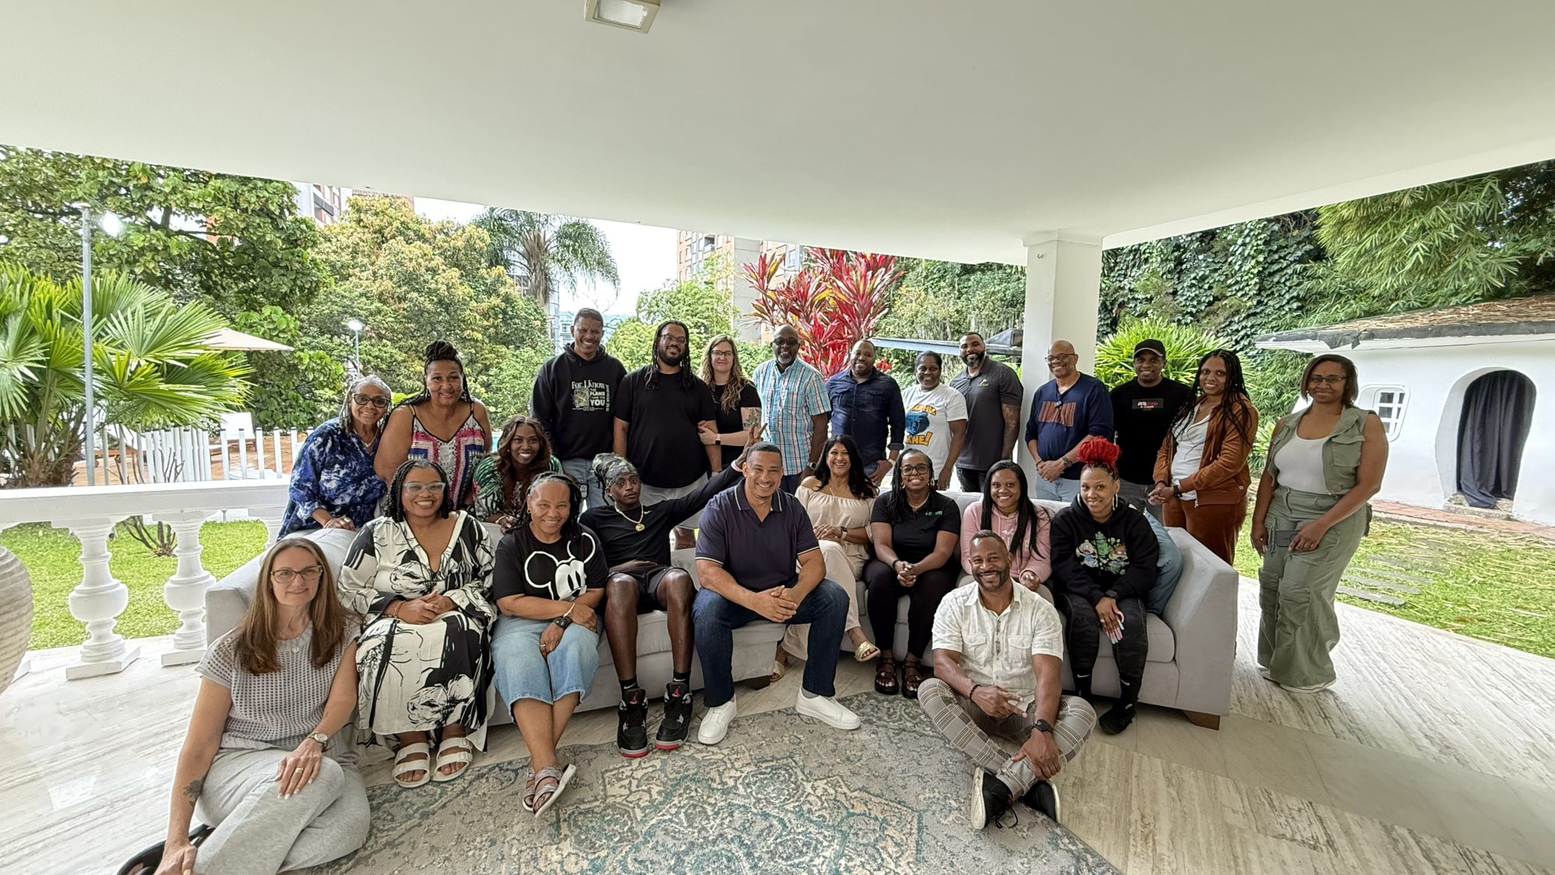
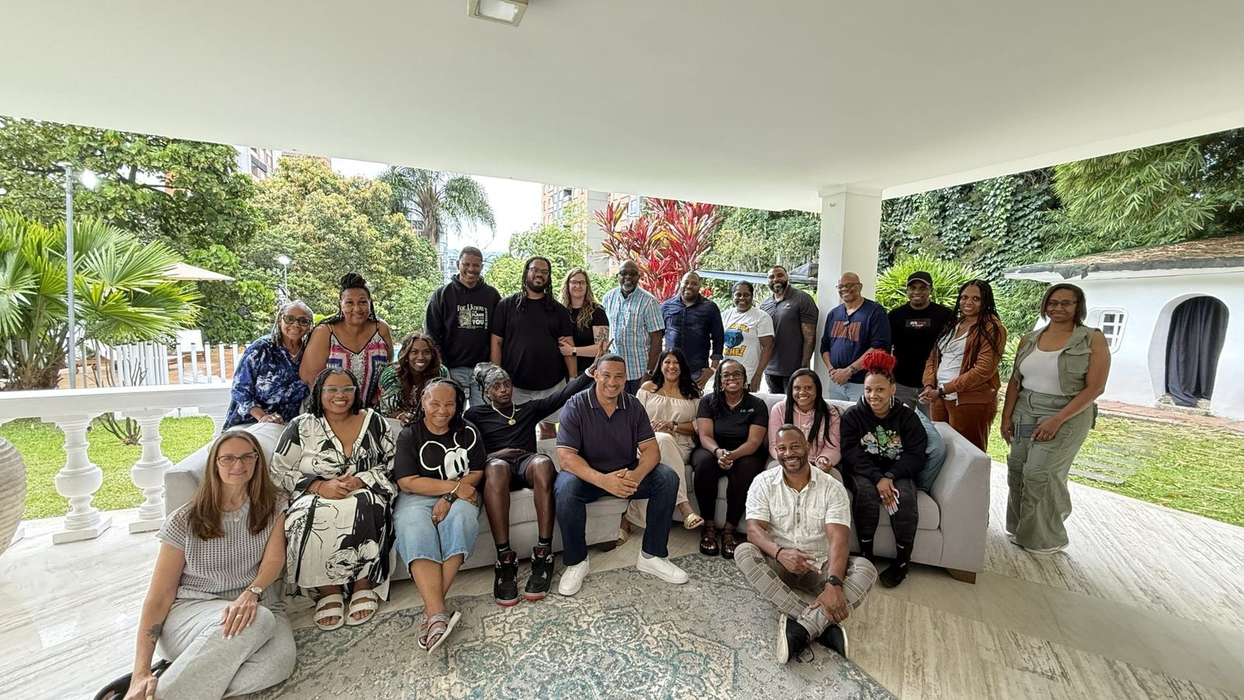
QA pass: lighter Real Estate hero, page-specific announcements, accurate Empire monthly-fee wording, optimized hero images, overflow fix
Claude-Session: https://claude.ai/code/session_01Cg3r9p8uqo7RUmxQMhbu55

diff --git a/empire/index.html b/empire/index.html
@@ -21,7 +21,7 @@
 <link rel="stylesheet" href="/assets/site.css">
 </head>
 <body class="div-empire">
-<div class="topbar"><div class="wrap"><span class="sched">Live mentorship classes Monday to Thursday, 5:00 PM Pacific</span><span><a href="https://portal.4datapoints.com/" target="_blank" rel="noopener">Student Portal</a> &nbsp;·&nbsp; <a href="tel:+17027108030">702-710-8030</a> (call or text)</span></div></div>
+<div class="topbar"><div class="wrap"><span class="sched"><a href="/empire/digital-product-system/">New: Empire Digital Product System · $1,497 setup</a></span><span><a href="https://portal.4datapoints.com/" target="_blank" rel="noopener">Student Portal</a> &nbsp;·&nbsp; <a href="tel:+17027108030">702-710-8030</a> (call or text)</span></div></div>
 <header class="nav"><div class="wrap">
   <a class="logo" href="/" aria-label="4 Data Points Academy home"><img src="/assets/img/logo.png" alt="4 Data Points Academy" width="83" height="54"></a>
   <button class="burger" id="burger" aria-expanded="false" aria-controls="menu">Menu</button>
@@ -32,6 +32,8 @@
     <a href="/events/">Events</a>
     <a href="/books/">Books</a>
     <a href="/about/">About Odis</a>
+    <a class="m-only" href="https://portal.4datapoints.com/" target="_blank" rel="noopener">Student Portal</a>
+    <a class="m-only" href="tel:+17027108030">Call or text 702-710-8030</a>
     <a class="btn btn-gold" href="https://link.4datapoints.com/widget/booking/M9BCcQ7kIWQG6Rm2Wxmh" target="_blank" rel="noopener">Talk to Odis</a>
   </nav>
   <a class="btn btn-gold lp-call" href="tel:+17027108030">Call 702-710-8030</a>
@@ -46,7 +48,7 @@
       <p class="lead">A real business runs on lead capture, follow-up, booking, payments and email, all talking to each other. Empire sets up that whole system for you: branded, connected and tested.</p>
       <div class="btn-row"><a class="btn btn-gold" href="https://forms.4datapoints.com/empire-funnel" target="_blank" rel="noopener">Start Your Empire Intake</a><a class="btn btn-line" href="/empire/#empire-pk">See Packages</a></div>
     </div>
-    <figure class="sysshot"><img src="/assets/img/empire-system.jpg" alt="Our live Empire sales page and checkout, built and running in the same system we set up for clients" width="1800" height="1230"><figcaption>Our own Empire sales page and checkout, live today.</figcaption></figure>
+    <figure class="sysshot"><picture><source type="image/webp" srcset="/assets/img/empire-system-700.webp 700w, /assets/img/empire-system-1200.webp 1200w" sizes="(max-width:860px) 92vw, 560px"><img src="/assets/img/empire-system.jpg" alt="Our live Empire sales page and checkout, built and running in the same system we set up for clients" width="1200" height="820" fetchpriority="high" decoding="async"></picture><figcaption>Our own Empire sales page and checkout, live today.</figcaption></figure>
   </div></div>
   <section class="band white"><div class="wrap">
     <div class="head"><span class="eyebrow">What we build for you</span><h2>Everything your business runs on, in one place.</h2><p class="muted">No more stitching together a website builder, a calendar app, a payment app and a spreadsheet of leads.</p></div>
@@ -61,7 +63,7 @@
   </div></section>
   <section class="band light" id="empire-pk"><div class="wrap">
     <div class="head"><span class="eyebrow">Three ways to build</span><h2>Pick the level of build you need.</h2></div>
-    <p class="muted" style="margin:-10px 0 26px">The monthly fee covers ongoing maintenance, changes to your system and the third-party services it runs on.</p>
+    <p class="muted" style="margin:-10px 0 26px;max-width:780px"><b>What the monthly fee covers:</b> back-end maintenance, the basic third-party service fees needed to run your system, ongoing improvements with a limited amount of adjustments, and issue resolution. Usage beyond the basic level (such as high volumes of texts, calls, emails or AI) and major new features are quoted separately. See the <a href="https://forms.4datapoints.com/empire-terms-page" target="_blank" rel="noopener">Empire Terms</a>.</p>
     <div class="grid g3">
       <div class="card tier"><span class="tag">Digital Product System</span><div class="price">$1,497 <small>setup, due upfront</small></div><p style="margin-top:-4px">Your $97/month subscription begins only after we complete your digital product and sales system.</p><ul class="ticks"><li>Your digital product, created from your expertise</li><li>Sales page and secure checkout</li><li>Instant delivery to every buyer</li><li>Welcome, follow-up and abandoned-checkout emails</li><li>Storefront and a CRM that tracks every buyer</li></ul><a class="btn btn-line" href="/empire/digital-product-system/">See the System</a></div>
       <div class="card tier"><span class="tag">Empire Foundation</span><div class="price">$2,499 <small>setup + $197/month</small></div><ul class="ticks"><li>Website on your own domain and branded email</li><li>CRM, booking calendar and reminders</li><li>Lead capture with automated follow-up</li><li>Invoices and online payments</li><li>Empire Entrepreneur Foundations course</li></ul><a class="btn btn-line" href="https://forms.4datapoints.com/empire-funnel" target="_blank" rel="noopener">Start My Intake</a></div>

diff --git a/ventureu/index.html b/ventureu/index.html
@@ -21,7 +21,7 @@
 <link rel="stylesheet" href="/assets/site.css">
 </head>
 <body>
-<div class="topbar"><div class="wrap"><span class="sched">Live mentorship classes Monday to Thursday, 5:00 PM Pacific</span><span><a href="https://portal.4datapoints.com/" target="_blank" rel="noopener">Student Portal</a> &nbsp;·&nbsp; <a href="tel:+17027108030">702-710-8030</a> (call or text)</span></div></div>
+<div class="topbar"><div class="wrap"><span class="sched">VentureU Medellín · April 7–11, 2027</span><span><a href="https://portal.4datapoints.com/" target="_blank" rel="noopener">Student Portal</a> &nbsp;·&nbsp; <a href="tel:+17027108030">702-710-8030</a> (call or text)</span></div></div>
 <header class="nav"><div class="wrap">
   <a class="logo" href="/" aria-label="4 Data Points Academy home"><img src="/assets/img/logo.png" alt="4 Data Points Academy" width="83" height="54"></a>
   <button class="burger" id="burger" aria-expanded="false" aria-controls="menu">Menu</button>
@@ -32,6 +32,8 @@
     <a href="/events/">Events</a>
     <a href="/books/">Books</a>
     <a href="/about/">About Odis</a>
+    <a class="m-only" href="https://portal.4datapoints.com/" target="_blank" rel="noopener">Student Portal</a>
+    <a class="m-only" href="tel:+17027108030">Call or text 702-710-8030</a>
     <a class="btn btn-gold" href="https://link.4datapoints.com/widget/booking/M9BCcQ7kIWQG6Rm2Wxmh" target="_blank" rel="noopener">Talk to Odis</a>
   </nav>
   <a class="btn btn-gold lp-call" href="tel:+17027108030">Call 702-710-8030</a>
@@ -44,7 +46,7 @@
       <div><span class="dateline">Medellín, Colombia · April 7–11, 2027</span><h1>Come with an idea.<br><span class="gold">Leave with a business.</span></h1></div>
       <div class="vu-side"><p class="lead">Five days of hands-on business building in Medellín, Colombia. Limited to 50 attendees. All sessions in English.</p><div class="btn-row"><a class="btn btn-gold" href="https://go.4datapoints.com/medellin-retreat-ventureu-717053" target="_blank" rel="noopener">Reserve Your Seat</a></div></div>
     </div>
-    <figure class="vu-photo"><img src="/assets/img/ventureu-medellin-group.jpg" alt="VentureU attendees together at the retreat villa in Medellín" width="2000" height="1125"><figcaption>VentureU attendees at the retreat villa in Medellín.</figcaption></figure>
+    <figure class="vu-photo"><picture><source type="image/webp" srcset="/assets/img/ventureu-medellin-group-800.webp 800w, /assets/img/ventureu-medellin-group-1400.webp 1400w, /assets/img/ventureu-medellin-group-2000.webp 2000w" sizes="(max-width:1220px) 94vw, 1180px"><img src="/assets/img/ventureu-medellin-group.jpg" alt="VentureU attendees together at the retreat villa in Medellín" width="1600" height="900" fetchpriority="high" decoding="async"></picture><figcaption>VentureU attendees at the retreat villa in Medellín.</figcaption></figure>
   </div></div>
   <section class="band white"><div class="wrap">
     <div class="head"><span class="eyebrow">Build the business, not just the business plan</span><h2>Five working days, not a conference.</h2><p class="muted">Most events leave you with a notebook full of ideas. VentureU attendees leave Medellín having done the work on their own business.</p></div>

diff --git a/lp/empire/index.html b/lp/empire/index.html
@@ -22,7 +22,7 @@
 <link rel="stylesheet" href="/assets/site.css">
 </head>
 <body class="lp div-empire">
-<div class="topbar"><div class="wrap"><span class="sched">Live mentorship classes Monday to Thursday, 5:00 PM Pacific</span><span><a href="https://portal.4datapoints.com/" target="_blank" rel="noopener">Student Portal</a> &nbsp;·&nbsp; <a href="tel:+17027108030">702-710-8030</a> (call or text)</span></div></div>
+<div class="topbar"><div class="wrap"><span class="sched"><a href="/empire/digital-product-system/">New: Empire Digital Product System · $1,497 setup</a></span><span><a href="https://portal.4datapoints.com/" target="_blank" rel="noopener">Student Portal</a> &nbsp;·&nbsp; <a href="tel:+17027108030">702-710-8030</a> (call or text)</span></div></div>
 <header class="nav"><div class="wrap">
   <a class="logo" href="/" aria-label="4 Data Points Academy home"><img src="/assets/img/logo.png" alt="4 Data Points Academy" width="83" height="54"></a>
   <button class="burger" id="burger" aria-expanded="false" aria-controls="menu">Menu</button>
@@ -33,6 +33,8 @@
     <a href="/events/">Events</a>
     <a href="/books/">Books</a>
     <a href="/about/">About Odis</a>
+    <a class="m-only" href="https://portal.4datapoints.com/" target="_blank" rel="noopener">Student Portal</a>
+    <a class="m-only" href="tel:+17027108030">Call or text 702-710-8030</a>
     <a class="btn btn-gold" href="https://link.4datapoints.com/widget/booking/M9BCcQ7kIWQG6Rm2Wxmh" target="_blank" rel="noopener">Talk to Odis</a>
   </nav>
   <a class="btn btn-gold lp-call" href="tel:+17027108030">Call 702-710-8030</a>
@@ -64,7 +66,7 @@
       <div class="card tier"><span class="tag">Empire Foundation</span><div class="price">$2,499 <small>setup + $197/month</small></div><p>Website, CRM, booking, lead capture, follow-up and payments, plus the Entrepreneur Foundations course.</p></div>
       <div class="card tier feat"><span class="badge">Most popular</span><span class="tag">Empire Builder</span><div class="price">$3,499 <small>setup + $297/month</small></div><p>Everything in Foundation, plus an AI assistant, sales pipeline, paid-ad booking funnel, email campaigns and the advanced course.</p></div>
     </div>
-    <p class="note" style="margin-top:16px">The monthly fee covers ongoing maintenance, changes to your system and the third-party services it runs on. Empire has its own terms, shown at checkout. No payment plans.</p>
+    <p class="note" style="margin-top:16px">The monthly fee covers back-end maintenance, the basic third-party service fees needed to run your system, ongoing improvements with a limited amount of adjustments, and issue resolution. Higher usage and major new features are quoted separately. Empire has its own terms, shown at checkout. No payment plans.</p>
   </div></section>
   <section class="band cta-band"><div class="wrap"><h2>See what your business needs.</h2><p class="lead">The intake takes a few minutes, and there's no obligation.</p><div class="btn-row" style="justify-content:center"><a class="btn btn-gold" href="/lp/empire/" data-top>Start My Intake</a></div></div></section>
 </section>

diff --git a/real-estate-investing/index.html b/real-estate-investing/index.html
@@ -21,7 +21,7 @@
 <link rel="stylesheet" href="/assets/site.css">
 </head>
 <body>
-<div class="topbar"><div class="wrap"><span class="sched">Live mentorship classes Monday to Thursday, 5:00 PM Pacific</span><span><a href="https://portal.4datapoints.com/" target="_blank" rel="noopener">Student Portal</a> &nbsp;·&nbsp; <a href="tel:+17027108030">702-710-8030</a> (call or text)</span></div></div>
+<div class="topbar"><div class="wrap"><span class="sched">Live mentorship classes Mon–Thu, 5:00 PM Pacific</span><span><a href="https://portal.4datapoints.com/" target="_blank" rel="noopener">Student Portal</a> &nbsp;·&nbsp; <a href="tel:+17027108030">702-710-8030</a> (call or text)</span></div></div>
 <header class="nav"><div class="wrap">
   <a class="logo" href="/" aria-label="4 Data Points Academy home"><img src="/assets/img/logo.png" alt="4 Data Points Academy" width="83" height="54"></a>
   <button class="burger" id="burger" aria-expanded="false" aria-controls="menu">Menu</button>
@@ -32,6 +32,8 @@
     <a href="/events/">Events</a>
     <a href="/books/">Books</a>
     <a href="/about/">About Odis</a>
+    <a class="m-only" href="https://portal.4datapoints.com/" target="_blank" rel="noopener">Student Portal</a>
+    <a class="m-only" href="tel:+17027108030">Call or text 702-710-8030</a>
     <a class="btn btn-gold" href="https://link.4datapoints.com/widget/booking/M9BCcQ7kIWQG6Rm2Wxmh" target="_blank" rel="noopener">Talk to Odis</a>
   </nav>
   <a class="btn btn-gold lp-call" href="tel:+17027108030">Call 702-710-8030</a>
@@ -39,7 +41,7 @@
 
 <main>
 <section class="page show" id="p-realestate" data-page="realestate" data-title="Real Estate Investing Mentorship &amp; Courses | 4 Data Points Academy">
-  <div class="sub-hero img" style="background-image:url('/assets/img/s40.jpg')"><div class="wrap">
+  <div class="sub-hero img re-hero" style="background-image:url('/assets/img/s40.jpg')"><div class="wrap">
     <span class="eyebrow">Path 1 · Real Estate Investing</span>
     <h1>Learn it, then do it,<br><span class="gold">with someone in your corner.</span></h1>
     <p class="lead">Residential and multifamily investing, creative financing, land and asset protection. Start with a course or go all in with mentorship that has no end date.</p>

diff --git a/multifamily/index.html b/multifamily/index.html
@@ -21,7 +21,7 @@
 <link rel="stylesheet" href="/assets/site.css">
 </head>
 <body>
-<div class="topbar"><div class="wrap"><span class="sched">Live mentorship classes Monday to Thursday, 5:00 PM Pacific</span><span><a href="https://portal.4datapoints.com/" target="_blank" rel="noopener">Student Portal</a> &nbsp;·&nbsp; <a href="tel:+17027108030">702-710-8030</a> (call or text)</span></div></div>
+<div class="topbar"><div class="wrap"><span class="sched"><a href="/multifamily-workshop/">Multifamily Workshop: Sat, Nov 14 · 7 AM Pacific</a></span><span><a href="https://portal.4datapoints.com/" target="_blank" rel="noopener">Student Portal</a> &nbsp;·&nbsp; <a href="tel:+17027108030">702-710-8030</a> (call or text)</span></div></div>
 <header class="nav"><div class="wrap">
   <a class="logo" href="/" aria-label="4 Data Points Academy home"><img src="/assets/img/logo.png" alt="4 Data Points Academy" width="83" height="54"></a>
   <button class="burger" id="burger" aria-expanded="false" aria-controls="menu">Menu</button>
@@ -32,6 +32,8 @@
     <a href="/events/">Events</a>
     <a href="/books/">Books</a>
     <a href="/about/">About Odis</a>
+    <a class="m-only" href="https://portal.4datapoints.com/" target="_blank" rel="noopener">Student Portal</a>
+    <a class="m-only" href="tel:+17027108030">Call or text 702-710-8030</a>
     <a class="btn btn-gold" href="https://link.4datapoints.com/widget/booking/M9BCcQ7kIWQG6Rm2Wxmh" target="_blank" rel="noopener">Talk to Odis</a>
   </nav>
   <a class="btn btn-gold lp-call" href="tel:+17027108030">Call 702-710-8030</a>

diff --git a/ascendu/index.html b/ascendu/index.html
@@ -21,7 +21,7 @@
 <link rel="stylesheet" href="/assets/site.css">
 </head>
 <body class="div-pd">
-<div class="topbar"><div class="wrap"><span class="sched">Live mentorship classes Monday to Thursday, 5:00 PM Pacific</span><span><a href="https://portal.4datapoints.com/" target="_blank" rel="noopener">Student Portal</a> &nbsp;·&nbsp; <a href="tel:+17027108030">702-710-8030</a> (call or text)</span></div></div>
+<div class="topbar"><div class="wrap"><span class="sched"><a href="#waitlist">Next Self-Image Workshop: join the waitlist</a></span><span><a href="https://portal.4datapoints.com/" target="_blank" rel="noopener">Student Portal</a> &nbsp;·&nbsp; <a href="tel:+17027108030">702-710-8030</a> (call or text)</span></div></div>
 <header class="nav"><div class="wrap">
   <a class="logo" href="/" aria-label="4 Data Points Academy home"><img src="/assets/img/logo.png" alt="4 Data Points Academy" width="83" height="54"></a>
   <button class="burger" id="burger" aria-expanded="false" aria-controls="menu">Menu</button>
@@ -32,6 +32,8 @@
     <a href="/events/">Events</a>
     <a href="/books/">Books</a>
     <a href="/about/">About Odis</a>
+    <a class="m-only" href="https://portal.4datapoints.com/" target="_blank" rel="noopener">Student Portal</a>
+    <a class="m-only" href="tel:+17027108030">Call or text 702-710-8030</a>
     <a class="btn btn-gold" href="https://link.4datapoints.com/widget/booking/M9BCcQ7kIWQG6Rm2Wxmh" target="_blank" rel="noopener">Talk to Odis</a>
   </nav>
   <a class="btn btn-gold lp-call" href="tel:+17027108030">Call 702-710-8030</a>

diff --git a/empire/digital-product-system/index.html b/empire/digital-product-system/index.html
@@ -81,6 +81,7 @@ p{margin:0}
 /* device */
 .stage{position:relative;height:640px}
 .disc{position:absolute;right:-40px;top:10px;width:560px;height:560px;border-radius:50%;background:var(--champagne)}
+@media (max-width:1240px){.disc{right:-12px}}
 .device{position:absolute;left:50%;top:40px;transform:translateX(-46%);width:310px;height:540px;border-radius:40px;background:#111;padding:13px;box-shadow:0 30px 60px rgba(20,20,20,.28),inset 0 0 0 2px #2b2b2b}
 .screen{height:100%;border-radius:28px;background:#121212;color:#fff;padding:20px 18px;display:flex;flex-direction:column;align-items:center}
 .snav{width:100%;display:flex;justify-content:space-between;align-items:center;font-size:12px;font-weight:600;letter-spacing:.12em}
@@ -251,6 +252,7 @@ footer a{color:#9C968A}
             <li>Automation monitoring and maintenance</li>
             <li>Ongoing support from the Empire team</li>
           </ul>
+          <p style="font-size:13px;color:var(--ink-2);margin-top:12px;line-height:1.5">Includes basic usage and a limited amount of adjustments. High volumes of texts, emails or AI usage, and major new features, are quoted separately.</p>
         </div>
       </div>
       <p class="assure"><svg width="20" height="20" viewBox="0 0 24 24" fill="none" stroke="#0B7A55" stroke-width="2.2" stroke-linecap="round" stroke-linejoin="round" aria-hidden="true"><circle cx="12" cy="12" r="9.5"/><path d="M7.5 12.5l3 3 6-6.5"/></svg>You won't pay your monthly subscription until your digital product and automated sales system are completed and ready for launch.</p>

diff --git a/entrepreneurship/index.html b/entrepreneurship/index.html
@@ -21,7 +21,7 @@
 <link rel="stylesheet" href="/assets/site.css">
 </head>
 <body>
-<div class="topbar"><div class="wrap"><span class="sched">Live mentorship classes Monday to Thursday, 5:00 PM Pacific</span><span><a href="https://portal.4datapoints.com/" target="_blank" rel="noopener">Student Portal</a> &nbsp;·&nbsp; <a href="tel:+17027108030">702-710-8030</a> (call or text)</span></div></div>
+<div class="topbar"><div class="wrap"><span class="sched"><a href="/ventureu/">VentureU Medellín · April 7–11, 2027</a></span><span><a href="https://portal.4datapoints.com/" target="_blank" rel="noopener">Student Portal</a> &nbsp;·&nbsp; <a href="tel:+17027108030">702-710-8030</a> (call or text)</span></div></div>
 <header class="nav"><div class="wrap">
   <a class="logo" href="/" aria-label="4 Data Points Academy home"><img src="/assets/img/logo.png" alt="4 Data Points Academy" width="83" height="54"></a>
   <button class="burger" id="burger" aria-expanded="false" aria-controls="menu">Menu</button>
@@ -32,6 +32,8 @@
     <a href="/events/">Events</a>
     <a href="/books/">Books</a>
     <a href="/about/">About Odis</a>
+    <a class="m-only" href="https://portal.4datapoints.com/" target="_blank" rel="noopener">Student Portal</a>
+    <a class="m-only" href="tel:+17027108030">Call or text 702-710-8030</a>
     <a class="btn btn-gold" href="https://link.4datapoints.com/widget/booking/M9BCcQ7kIWQG6Rm2Wxmh" target="_blank" rel="noopener">Talk to Odis</a>
   </nav>
   <a class="btn btn-gold lp-call" href="tel:+17027108030">Call 702-710-8030</a>

diff --git a/lp/mentorship/index.html b/lp/mentorship/index.html
@@ -22,7 +22,7 @@
 <link rel="stylesheet" href="/assets/site.css">
 </head>
 <body class="lp">
-<div class="topbar"><div class="wrap"><span class="sched">Live mentorship classes Monday to Thursday, 5:00 PM Pacific</span><span><a href="https://portal.4datapoints.com/" target="_blank" rel="noopener">Student Portal</a> &nbsp;·&nbsp; <a href="tel:+17027108030">702-710-8030</a> (call or text)</span></div></div>
+<div class="topbar"><div class="wrap"><span class="sched">Live mentorship classes Mon–Thu, 5:00 PM Pacific</span><span><a href="https://portal.4datapoints.com/" target="_blank" rel="noopener">Student Portal</a> &nbsp;·&nbsp; <a href="tel:+17027108030">702-710-8030</a> (call or text)</span></div></div>
 <header class="nav"><div class="wrap">
   <a class="logo" href="/" aria-label="4 Data Points Academy home"><img src="/assets/img/logo.png" alt="4 Data Points Academy" width="83" height="54"></a>
   <button class="burger" id="burger" aria-expanded="false" aria-controls="menu">Menu</button>
@@ -33,6 +33,8 @@
     <a href="/events/">Events</a>
     <a href="/books/">Books</a>
     <a href="/about/">About Odis</a>
+    <a class="m-only" href="https://portal.4datapoints.com/" target="_blank" rel="noopener">Student Portal</a>
+    <a class="m-only" href="tel:+17027108030">Call or text 702-710-8030</a>
     <a class="btn btn-gold" href="https://link.4datapoints.com/widget/booking/M9BCcQ7kIWQG6Rm2Wxmh" target="_blank" rel="noopener">Talk to Odis</a>
   </nav>
   <a class="btn btn-gold lp-call" href="tel:+17027108030">Call 702-710-8030</a>

diff --git a/lp/land-trust/index.html b/lp/land-trust/index.html
@@ -22,7 +22,7 @@
 <link rel="stylesheet" href="/assets/site.css">
 </head>
 <body class="lp">
-<div class="topbar"><div class="wrap"><span class="sched">Live mentorship classes Monday to Thursday, 5:00 PM Pacific</span><span><a href="https://portal.4datapoints.com/" target="_blank" rel="noopener">Student Portal</a> &nbsp;·&nbsp; <a href="tel:+17027108030">702-710-8030</a> (call or text)</span></div></div>
+<div class="topbar"><div class="wrap"><span class="sched">Land trust packages: $700 flat per property</span><span><a href="https://portal.4datapoints.com/" target="_blank" rel="noopener">Student Portal</a> &nbsp;·&nbsp; <a href="tel:+17027108030">702-710-8030</a> (call or text)</span></div></div>
 <header class="nav"><div class="wrap">
   <a class="logo" href="/" aria-label="4 Data Points Academy home"><img src="/assets/img/logo.png" alt="4 Data Points Academy" width="83" height="54"></a>
   <button class="burger" id="burger" aria-expanded="false" aria-controls="menu">Menu</button>
@@ -33,6 +33,8 @@
     <a href="/events/">Events</a>
     <a href="/books/">Books</a>
     <a href="/about/">About Odis</a>
+    <a class="m-only" href="https://portal.4datapoints.com/" target="_blank" rel="noopener">Student Portal</a>
+    <a class="m-only" href="tel:+17027108030">Call or text 702-710-8030</a>
     <a class="btn btn-gold" href="https://link.4datapoints.com/widget/booking/M9BCcQ7kIWQG6Rm2Wxmh" target="_blank" rel="noopener">Talk to Odis</a>
   </nav>
   <a class="btn btn-gold lp-call" href="tel:+17027108030">Call 702-710-8030</a>

diff --git a/404.html b/404.html
@@ -22,7 +22,7 @@
 <link rel="stylesheet" href="/assets/site.css">
 </head>
 <body>
-<div class="topbar"><div class="wrap"><span class="sched">Live mentorship classes Monday to Thursday, 5:00 PM Pacific</span><span><a href="https://portal.4datapoints.com/" target="_blank" rel="noopener">Student Portal</a> &nbsp;·&nbsp; <a href="tel:+17027108030">702-710-8030</a> (call or text)</span></div></div>
+<div class="topbar"><div class="wrap"><span class="sched">Live mentorship classes Mon–Thu, 5:00 PM Pacific</span><span><a href="https://portal.4datapoints.com/" target="_blank" rel="noopener">Student Portal</a> &nbsp;·&nbsp; <a href="tel:+17027108030">702-710-8030</a> (call or text)</span></div></div>
 <header class="nav"><div class="wrap">
   <a class="logo" href="/" aria-label="4 Data Points Academy home"><img src="/assets/img/logo.png" alt="4 Data Points Academy" width="83" height="54"></a>
   <button class="burger" id="burger" aria-expanded="false" aria-controls="menu">Menu</button>
@@ -33,6 +33,8 @@
     <a href="/events/">Events</a>
     <a href="/books/">Books</a>
     <a href="/about/">About Odis</a>
+    <a class="m-only" href="https://portal.4datapoints.com/" target="_blank" rel="noopener">Student Portal</a>
+    <a class="m-only" href="tel:+17027108030">Call or text 702-710-8030</a>
     <a class="btn btn-gold" href="https://link.4datapoints.com/widget/booking/M9BCcQ7kIWQG6Rm2Wxmh" target="_blank" rel="noopener">Talk to Odis</a>
   </nav>
   <a class="btn btn-gold lp-call" href="tel:+17027108030">Call 702-710-8030</a>

diff --git a/about/index.html b/about/index.html
@@ -21,7 +21,7 @@
 <link rel="stylesheet" href="/assets/site.css">
 </head>
 <body>
-<div class="topbar"><div class="wrap"><span class="sched">Live mentorship classes Monday to Thursday, 5:00 PM Pacific</span><span><a href="https://portal.4datapoints.com/" target="_blank" rel="noopener">Student Portal</a> &nbsp;·&nbsp; <a href="tel:+17027108030">702-710-8030</a> (call or text)</span></div></div>
+<div class="topbar"><div class="wrap"><span class="sched">Live mentorship classes Mon–Thu, 5:00 PM Pacific</span><span><a href="https://portal.4datapoints.com/" target="_blank" rel="noopener">Student Portal</a> &nbsp;·&nbsp; <a href="tel:+17027108030">702-710-8030</a> (call or text)</span></div></div>
 <header class="nav"><div class="wrap">
   <a class="logo" href="/" aria-label="4 Data Points Academy home"><img src="/assets/img/logo.png" alt="4 Data Points Academy" width="83" height="54"></a>
   <button class="burger" id="burger" aria-expanded="false" aria-controls="menu">Menu</button>
@@ -32,6 +32,8 @@
     <a href="/events/">Events</a>
     <a href="/books/">Books</a>
     <a href="/about/">About Odis</a>
+    <a class="m-only" href="https://portal.4datapoints.com/" target="_blank" rel="noopener">Student Portal</a>
+    <a class="m-only" href="tel:+17027108030">Call or text 702-710-8030</a>
     <a class="btn btn-gold" href="https://link.4datapoints.com/widget/booking/M9BCcQ7kIWQG6Rm2Wxmh" target="_blank" rel="noopener">Talk to Odis</a>
   </nav>
   <a class="btn btn-gold lp-call" href="tel:+17027108030">Call 702-710-8030</a>
